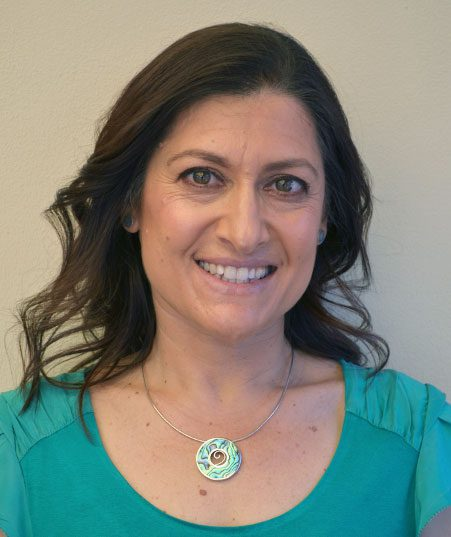
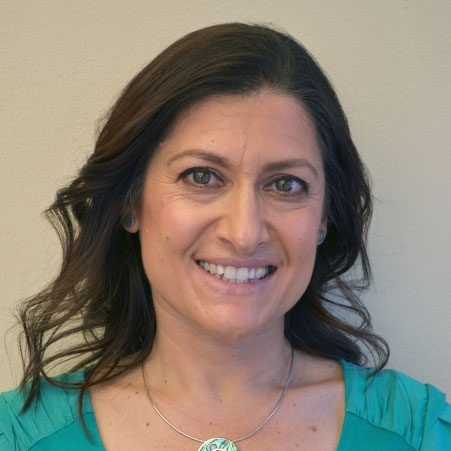
Make image shape square

diff --git a/index.html b/index.html
@@ -396,7 +396,7 @@
                 </div>
                 <p>We acknowledge the Traditional Owners of Country throughout Australia. We pay our respects to Elders past and present, and this respect extends to the knowledge and value systems required to maintain a truly sustainable food system here in Australia for over 60,000 years.</p>
                 <div class="btn-group dropup" style="width: fit-content;">
-                    <button type="button" class="btn btn-secondary dropdown-toggle" data-bs-toggle="dropdown" aria-expanded="false">
+                    <button type="button" class="btn btn-success dropdown-toggle" data-bs-toggle="dropdown" aria-expanded="false" style="font-size: 0.8rem;">
                       Image sources
                     </button>
                     <ul class="dropdown-menu">

diff --git a/manifesto_page.html b/manifesto_page.html
@@ -869,7 +869,7 @@
 
             offcanvasLinks.forEach(li => {
                 li.addEventListener('click', async(event) => {
-                    event.preventDefault();
+                    //event.preventDefault();
                     await showNavModal();
                     handleOffcanvasClick(event);
                 });
@@ -877,7 +877,7 @@
 
             offcanvasDropdown.forEach(li => {
                 li.addEventListener('click', async(event) => {
-                    event.preventDefault();
+                    //event.preventDefault();
                     await showNavModal();
                     handleOffcanvasClick(event);
                 });

diff --git a/style_concat.css b/style_concat.css
@@ -238,7 +238,6 @@ body {
   .person img {
     width: 300px;
     height: auto;
-    border-radius: 50%;
   }
 
   #carouselTeam {
@@ -879,7 +878,7 @@ body {
   padding: 2vw 2vh;
   justify-content: center;
   align-items: center;
-  background-image: linear-gradient(#82fae2, #03574675), url("./images/footerVeg.jpg");
+  background-image: linear-gradient(#82fae2, #03574691), url("./images/footerVeg.jpg");
   background-size: cover;
 }
 
@@ -903,7 +902,7 @@ body {
 
 .acknowledgment li {
   display: inline-block;
-  font-size: 0.8rem;
+  font-size: 0.6rem;
 }
 
 .icon {
